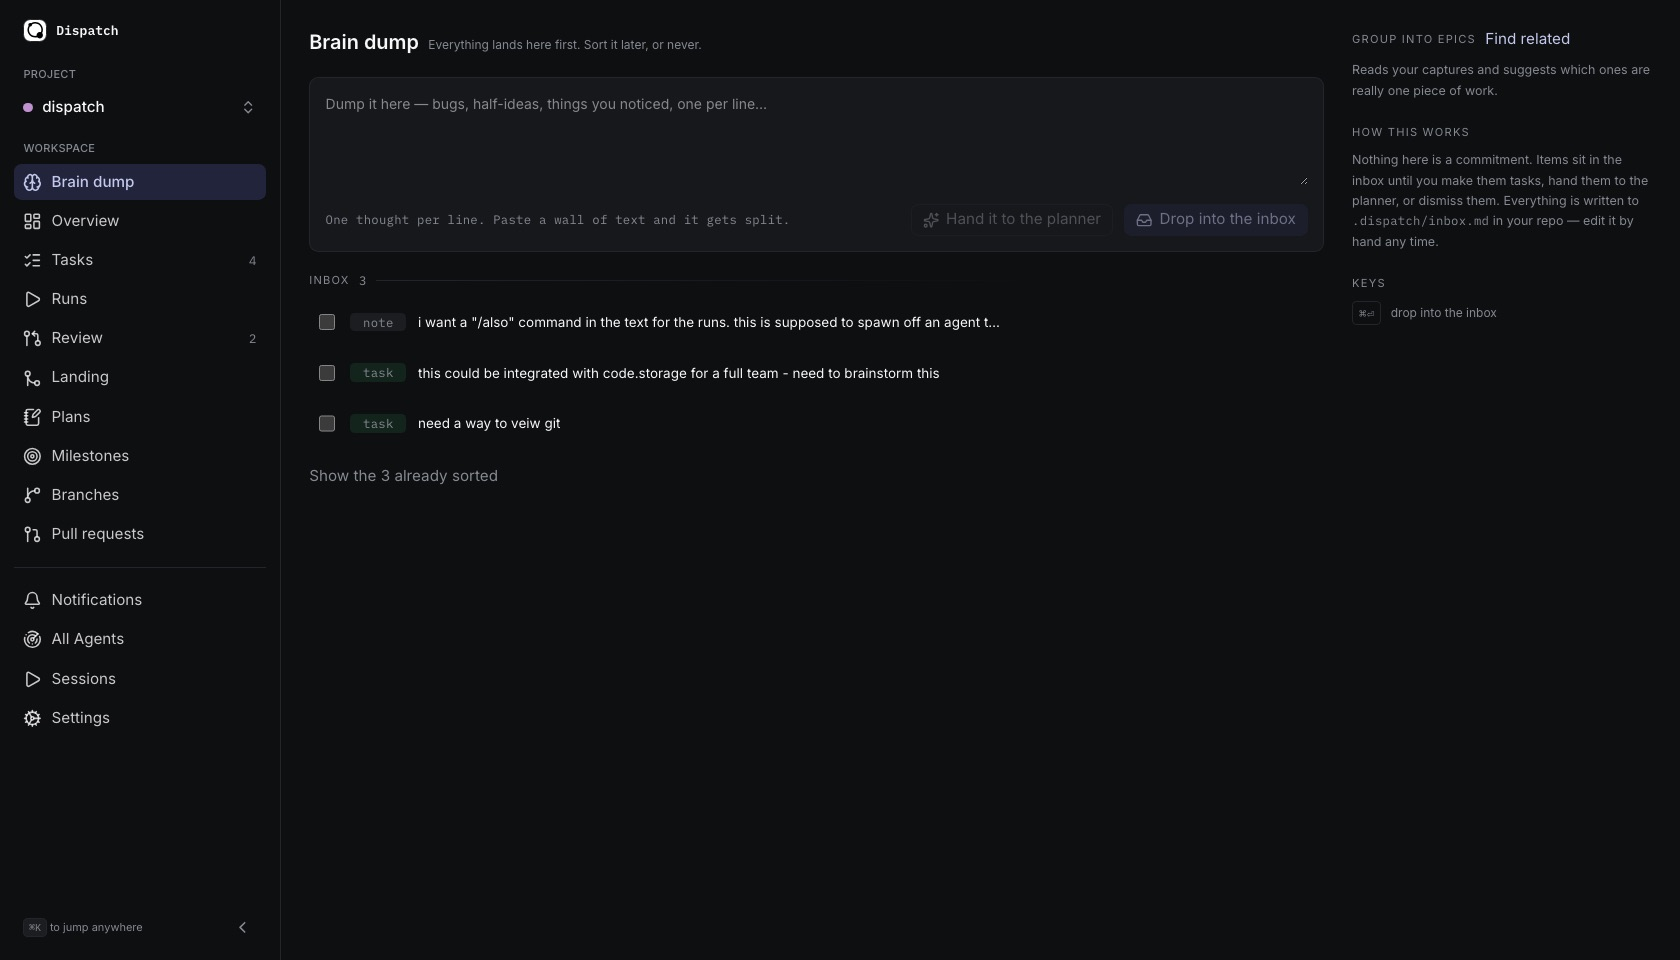
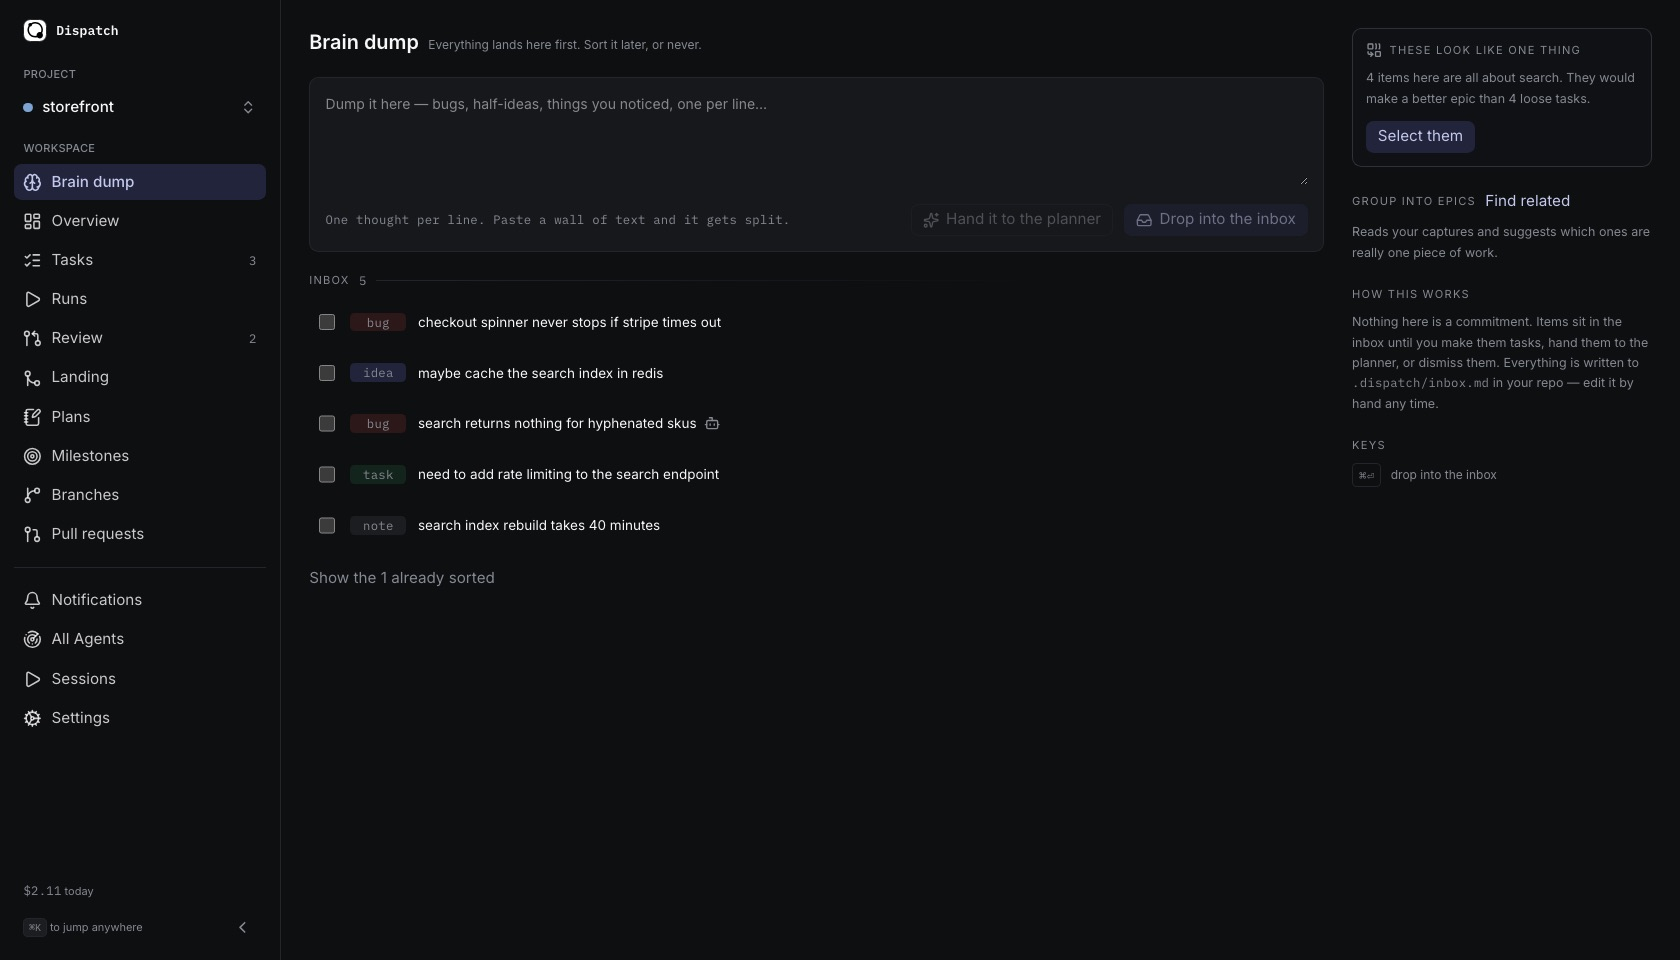
feat(site): screenshot a demo project instead of this repo
This repo's own board is a bad advertisement for a board: four live tasks,
forty-nine done, most columns empty, and half the run titles truncated to
"tasks should d...". The screenshots now come from a generated project —
a storefront with a checkout epic and a search epic — so every column has
something in it and the work reads as work.

Everything on screen is still produced by the real app reading real files.
The generator writes .dispatch/tasks/*.md, an inbox, and run transcripts,
then dispatchd is pointed at it with DISPATCH_HOME redirected so none of it
touches this machine's actual state. The clustering hint fires on its own —
"4 items here are all about search" — because it is the app's own code
looking at the app's own inbox format, not a caption I wrote.

One run is left failed, with Read the error and Retry next to it. A tool
whose screenshots contain no failures is a tool nobody believes. It is also
unavoidable in the honest direction: a "working" run cannot be faked from
static files, because boot reconciliation correctly fails any run left
non-terminal with no process behind it.

Two corrections that came out of doing this. The copy said the screenshots
were of this repo, which they no longer are — it now says a demo project and
that only the work is invented. And the hero task file said `blockedBy:`,
while the on-disk key is `blocked-by:` (packages/core/src/taskfile.ts). The
page had been showing a field name that would not parse.

diff --git a/apps/site/public/index.html b/apps/site/public/index.html
@@ -508,7 +508,7 @@
 <span class="k">status:</span>    <span class="v" id="hstatus">todo</span>
 <span class="k">kind:</span>      <span class="v">task</span>
 <span class="k">parent:</span>    <span class="id">e-9021cd</span>
-<span class="k">blockedBy:</span> <span class="v" id="hblock">[<span class="id">t-c8954b</span>]</span>
+<span class="k">blocked-by:</span> <span class="v" id="hblock">[<span class="id">t-c8954b</span>]</span>
 <span class="k">priority:</span>  <span class="v">high</span>
 <span class="rule">---</span>
 
@@ -527,8 +527,8 @@ there is output. Move to a push model.
         <p class="eyebrow">Screens</p>
         <h2>What it actually looks like.</h2>
         <p class="sub">
-          Screenshots of Dispatch running against its own repo — the tasks, runs
-          and costs below are real.
+          Dispatch running against a demo project, so the board has something on
+          it. The app is the real one; only the work is made up.
         </p>
 
         <div class="shotnav" role="tablist" aria-label="Screens">
